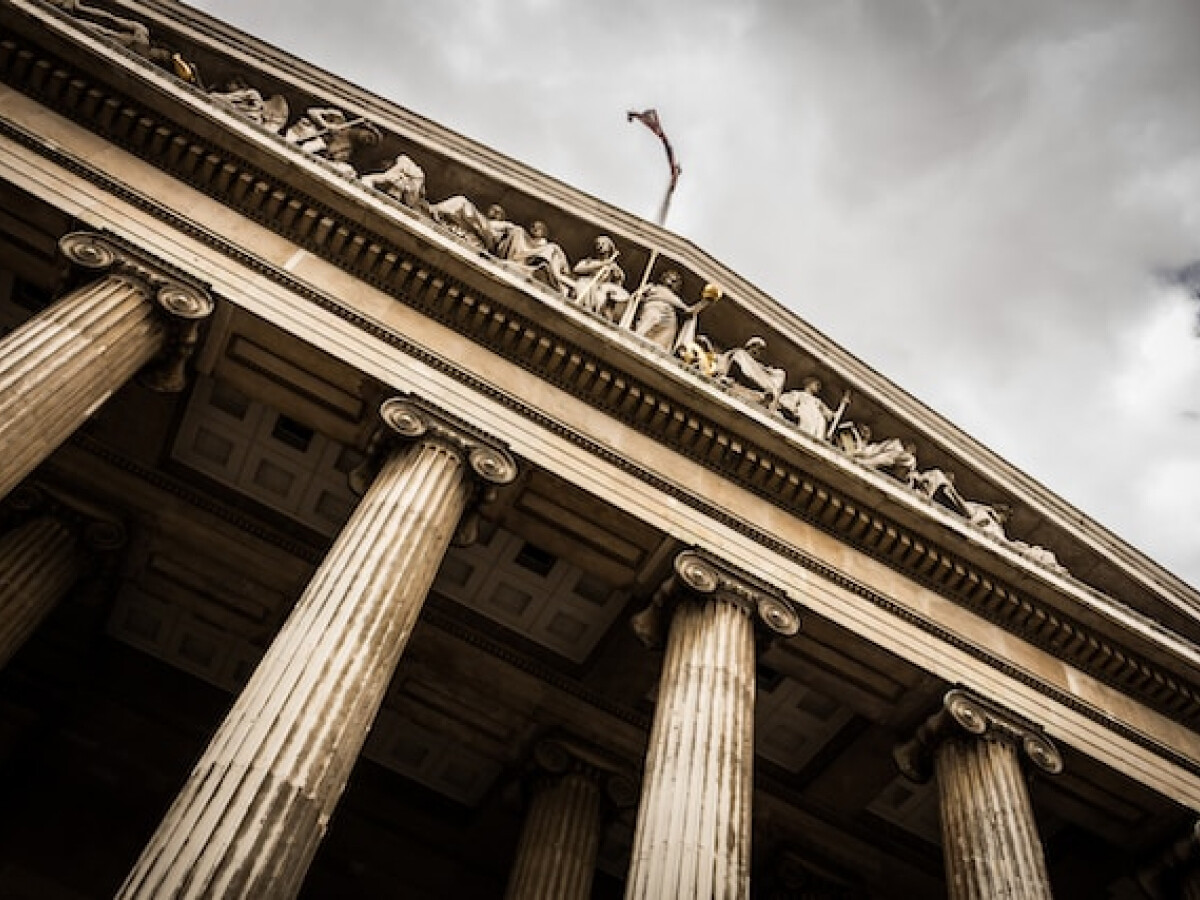
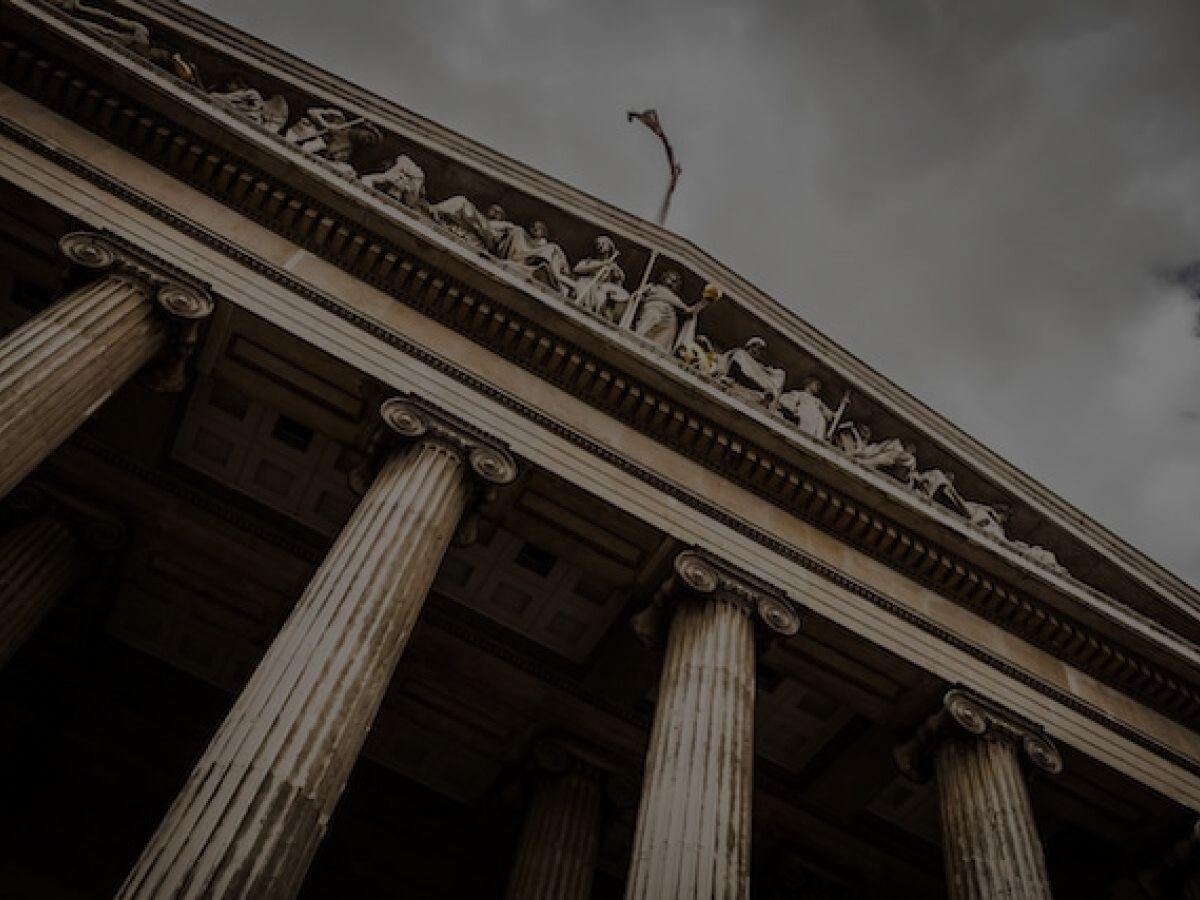
cambios img background home, fix build

diff --git a/frontend/src/components/ImgUploader.jsx b/frontend/src/components/ImgUploader.jsx
@@ -5,16 +5,15 @@ import axios from 'axios'
 import AddCircleOutlineIcon from '@mui/icons-material/AddCircleOutline';
 import { useUpdateLawyerImageMutation } from '../redux/userReducer';
 import Swal from 'sweetalert2';
+import LinearProgress from '@mui/material/LinearProgress';
 
 const ImgUploader = () => {
   const [image, setImage ] = useState("")
   const [ url, setUrl ] = useState("");
-  const [load, setLoad] = useState(false)
   const lawyer = useSelector( state => state.user)
   const lawyerId = useSelector( state => state.user.user._id)
-  const refSuccess = useRef(false)
 
-  const [ updateLawyerImage, { data, error, isSuccess}] = useUpdateLawyerImageMutation({
+  const [ updateLawyerImage, { data, isLoading}] = useUpdateLawyerImageMutation({
     fixedCacheKey: 'image-uploading',
   })
 
@@ -24,18 +23,16 @@ const ImgUploader = () => {
   },[image])
   
  /*  const handleSetImg = (e) => {
-    console.log("e: ", e)
-    const img = e.target.files[0]
     img.id = lawyerId
-    setImage(img)
-    console.log("img ", img)
+    setImage( e.target.files[0])
   } */
   const handleError = () => {
     Swal.fire({
       title: 'Error en la carga',
       icon: 'error',
       denyButtonText: 'cerrar',
-      timer: 3000
+      timer: 3000,
+      width: '400px',
     })
   }
   const handleSucces = () => {
@@ -46,18 +43,6 @@ const ImgUploader = () => {
       timer: 3000
     })
   }
- /*  useEffect(() => {
-    if (isSuccess) {
-      handleSucces()
-      console.log("IS SUCCESS")
-    }
-  },[isSuccess])
-
-  useEffect( () => {
-    if (error) {
-      handleError()
-    }
-  },[error]) */
 
   const uploadImage = (e) => {
     e.preventDefault()
@@ -112,20 +97,15 @@ const ImgUploader = () => {
             lawyerId, 
             formData
           }
-          console.log("loading adentro", load)
           updateLawyerImage(dataquery).unwrap()
-          .then(setLoad(prev => !prev))
           .then( res => {
             console.log(res)  
             handleSucces() 
           })
           .catch( () => handleError())
-          /* .finally( setLoad(false)) */
-          console.log("DATA: ", data)
-          /* return {isLoading, isSuccess, error} */     
+          console.log("DATA: ", data)  
       }
     }
-    console.log("loading afuera", load)
 
 
   return (
@@ -133,9 +113,9 @@ const ImgUploader = () => {
       <div style={{ textAlign: 'center'}}>
         <img src={url} style={{ width: '300px',maxWidth:'80%', height: 'auto', aspectRatio: "1/1", background: 'white' }} />
       </div>
-      <form action="" onSubmit={uploadImage} style={{display:'flex', flexDirection:'row', justifyContent:'center', alignItems:'center', px:'30%', marginTop:'1em'}}>
+      <form action="" onSubmit={uploadImage} style={{display:'flex', flexDirection:'row', justifyContent:'center', alignItems:'center', px:'30%', marginTop:'1em', width:'100%'}}>
         <InputLabel htmlFor='file' 
-          sx={{ display:'block', width:'200px', maxWidth:'40%', margin:'0 1em 0 0', borderRadius:'4px', boxShadow:'none', '&:hover':{background: '#FAFF00', boxShadow: '2'/* '1px 1px 0px 2px rgba(0,0,0,0.35)' */} }}
+          sx={{ display:'block', width:{xs:'120px', sm:'140px'}, maxWidth:'40%', margin:'0 1em 0 0', borderRadius:'4px', boxShadow:'none', '&:hover':{background: '#FAFF00', boxShadow: '2'/* '1px 1px 0px 2px rgba(0,0,0,0.35)' */} }}
         >
         <Input 
           sx={{ display: "none", width:'99%', borderRadius:'4px', boxShadow:'none', '&:hover':{boxShadow:'none'} }}
@@ -147,14 +127,14 @@ const ImgUploader = () => {
         />
         <Button 
           sx={{
-            width:'100%',
+            width:{xs:'120px', sm:'140px'}, 
             background:'#FAFF00', 
             color:'black', 
             '&:hover':{background: '#FAFF00'},
             '& .Mui-focusVisible':{background:'#FAFF00'},
             textAlign:'center',
-            fontSize:'1.1em',
-            lineHeight:'1.2em',
+            fontSize:'1em',
+            lineHeight:'1.1em',
             padding:'6px 4px 6px 4px',
             borderRadius:'4px'
           }} 
@@ -166,7 +146,7 @@ const ImgUploader = () => {
         </InputLabel>
         <Button 
           sx={{
-            width:'200px',
+            width:{xs:'120px', sm:'140px'}, 
             maxWidth:'40%',
             background:'#FAFF00', 
             color:'black', 
@@ -174,8 +154,8 @@ const ImgUploader = () => {
             '&:hover':{background:'#FAFF00' , boxShadow: '2' },
             '& .Mui-focusVisible':{background:'#FAFF00'},
             textAlign:'center',
-            fontSize:'1.1em',
-            lineHeight:'1.2em',
+            fontSize:'1em',
+            lineHeight:'1.1em',
             padding:'6px 4px 6px 4px',
             margin: '0 0 0 1em',
             boxShadow:'none'
@@ -187,10 +167,10 @@ const ImgUploader = () => {
         </Button>
       </form>
       {
-        load?
-        <Typography sx={{fontSize:'1.5em', color:'green'}}>Cargando...</Typography>
+        isLoading?
+        <LinearProgress sx={{m:'2em 5em 0 5em'}} />
         :
-        null
+        <Typography sx={{visibility:'hidden'}}>ss</Typography>
       }
     </Box>
     )

diff --git a/frontend/src/pages/Home/Home.jsx b/frontend/src/pages/Home/Home.jsx
@@ -3,16 +3,27 @@ import AboutServices from './AboutServices'
 import Footer from './Footer'
 import Navbar from '../../components/Navbar'
 import Box from '@mui/material/Box'
-import './styles.home.css'
 import { Button, Typography } from '@mui/material'
 import { Link } from 'react-router-dom'
+import ImgHome from '../../assets/portadaHome.jpg'
 
 const Home = () => {
   const dataInLocalStorage = localStorage.getItem('usuario')
   const userCredentials = dataInLocalStorage ? JSON.parse(dataInLocalStorage) : null
   return (
     <>
-      <Box as='section' className="boxPrincipalImg" >
+      <Box 
+        as='section' 
+        sx={{ 
+          backgroundImage:`url(${ImgHome})`,
+          backgroundSize: 'cover',
+          backgroundRepeat: 'no-repeat',
+          width: '100%',
+          height: '125vh',
+          color: 'white',
+          position:'relative',
+          }} 
+      >
         <Navbar isLogged={false}/>
         <Box sx={{ zIndex: 1, display: 'flex', flexDirection: 'column', justifyContent: 'center', alignItems: 'center', height: '30em' }}>
           <Typography as="h1" sx={{ fontSize: '2em' }}>Abogados</Typography>

diff --git a/frontend/src/components/ImageModal.jsx b/frontend/src/components/ImageModal.jsx
@@ -27,8 +27,8 @@ export default function ImageModal() {
     fixedCacheKey: 'image-uploading',
   })
   useEffect( () => {
-    isSuccess? handleClose() : null
-  },[isSuccess])
+    isSuccess||error? handleClose() : null
+  },[isSuccess, error])
 
   return (
     <Box sx={{ display:'flex', flexDirection:'column', alignItems:'center', my:'3em', borderRadius:'4px'}}>
